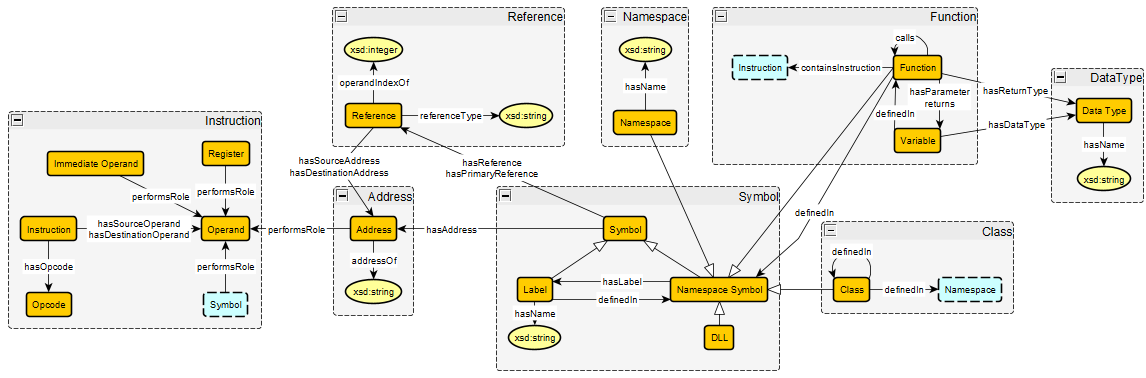
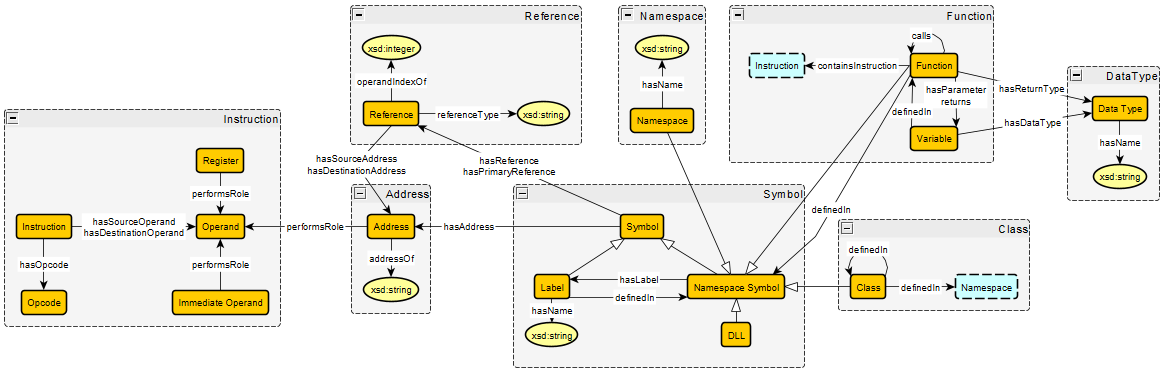
updated ontology with new schema

diff --git a/ghidra-scripting/data-extraction.py b/ghidra-scripting/data-extraction.py
@@ -9,6 +9,8 @@ from pathlib import Path
 from ghidra.program.model.symbol import SymbolType
 
 # TODO:
+# look into the differences between variables in functions and SymbolType.PARAMETER, SymbolType.LOCAL_VAR, and SymbolType.GLOBAL_VAR
+    # also see if variables should always have a label associated with them
 # update key notions and axiomization with new schema
 # modify script if necessary when working on string parsing
 # if undefined does not work for a data type, change it to something that can work 